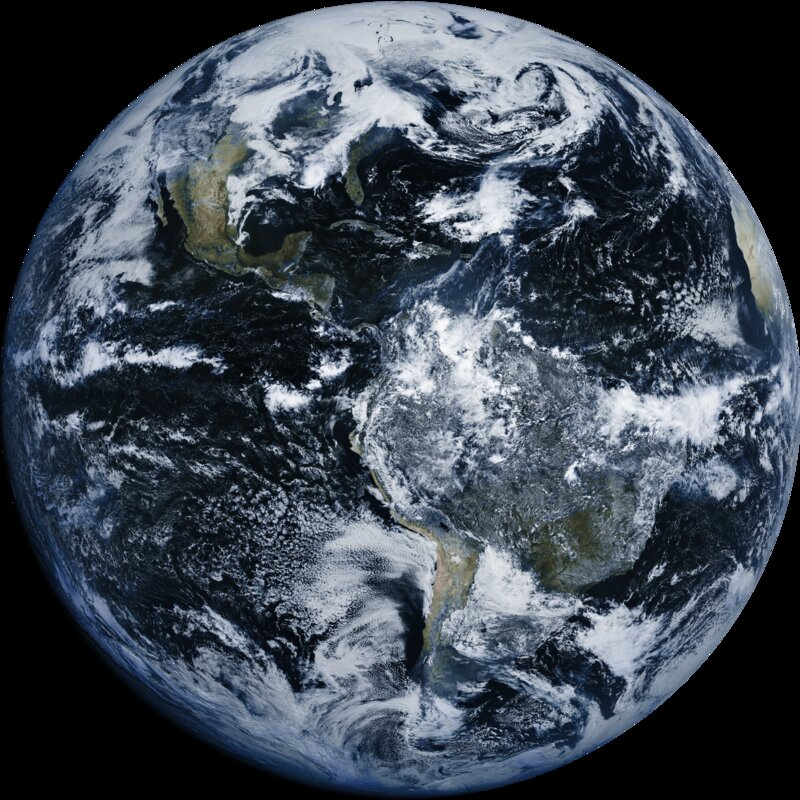
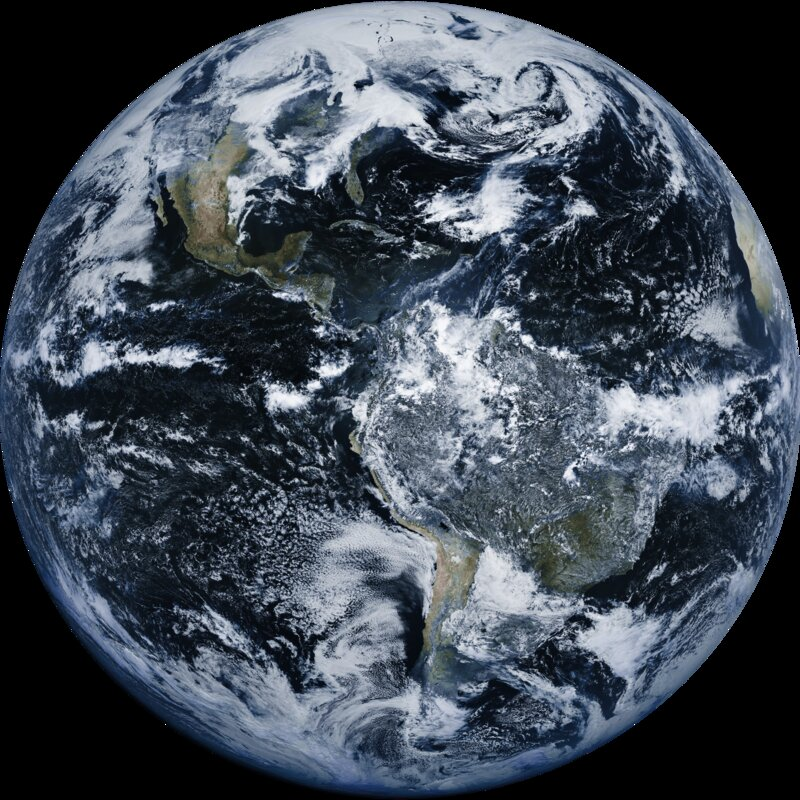
Update: 2026-05-03 23:00 UTC

Changed region(s): [[0.0, 0.0312, 1.0, 1.0], [0.7812, 0.1562, 0.9062, 0.2812], [0.8125, 0.6875, 0.8438, 0.7188]]

diff --git a/index.html b/index.html
@@ -75,7 +75,7 @@
                 <div class="timestamp" id="timestamp">Loading...</div>
             </div>
             <a class="img-link" onclick="openLightbox()" href="javascript:void(0)">
-                <img src="latest.jpg?v=1777845602" alt="Latest GOES-19 Full Disk Image" id="satimage">
+                <img src="latest.jpg?v=1777849202" alt="Latest GOES-19 Full Disk Image" id="satimage">
                 <div class="img-overlay">View full screen</div>
             </a>
             <div class="stats-bar">
@@ -139,7 +139,7 @@
     <!-- Lightbox -->
     <div class="lightbox" id="lightbox" onclick="closeLightbox()">
         <div class="lightbox-close" onclick="closeLightbox()">&#x2715;</div>
-        <img src="latest.jpg?v=1777845602" alt="GOES-19 Full Disk" id="lightbox-img">
+        <img src="latest.jpg?v=1777849202" alt="GOES-19 Full Disk" id="lightbox-img">
     </div>
 
     <script>
